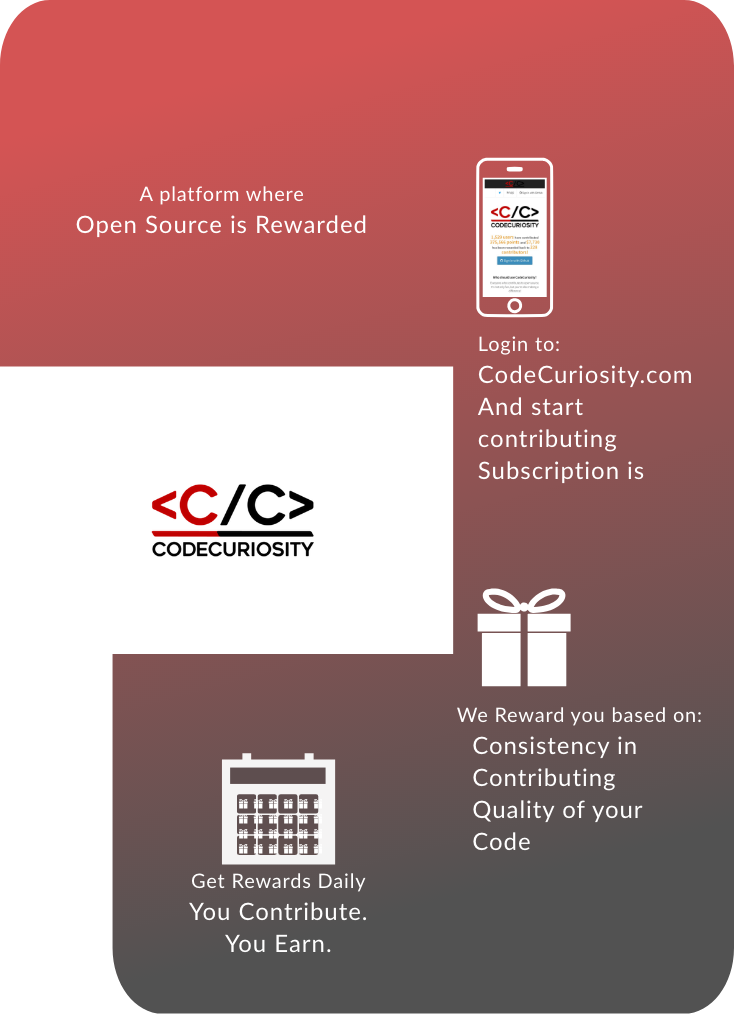
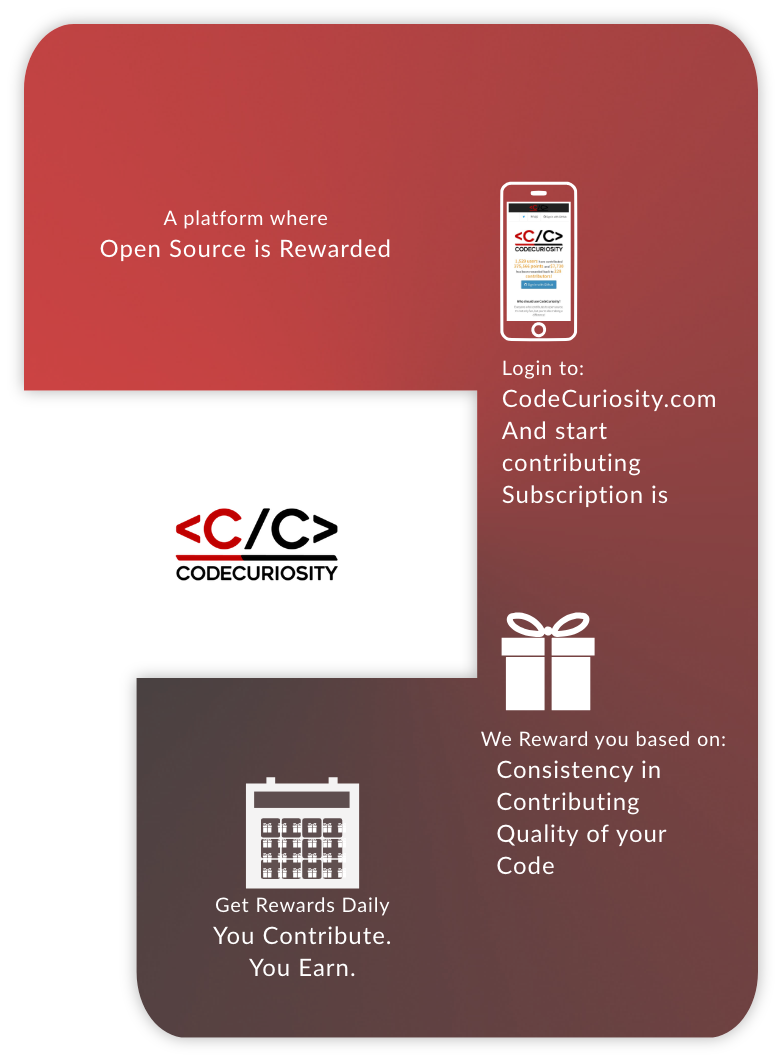
Edited:Innovation Page

diff --git a/src/styles/pages/_innovation.scss b/src/styles/pages/_innovation.scss
@@ -69,7 +69,7 @@
   img{
     margin:0 auto;
     margin-bottom: rem(20px);
-    width: rem(434px);
+    width: rem(455px);
 
     @include media-breakpoint-down(sm) {
       width: 80%;
